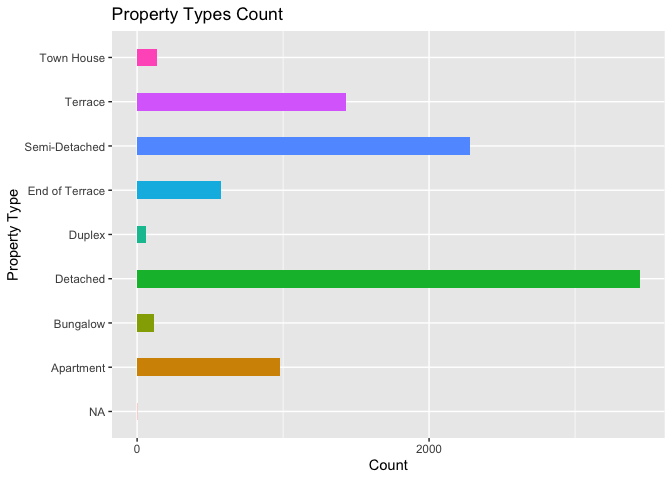
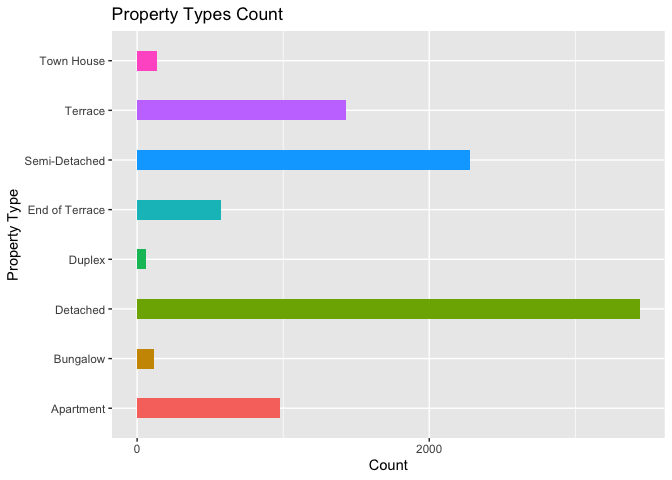
refactor: update R notebook and remove .DS_Store file.

diff --git a/scripts/exploration/DataExploration-HousingDataset.md b/scripts/exploration/DataExploration-HousingDataset.md
@@ -52,7 +52,7 @@ skim(ireland_houses)
 |                                                  |                |
 |:-------------------------------------------------|:---------------|
 | Name                                             | ireland_houses |
-| Number of rows                                   | 9019           |
+| Number of rows                                   | 9009           |
 | Number of columns                                | 12             |
 | \_\_\_\_\_\_\_\_\_\_\_\_\_\_\_\_\_\_\_\_\_\_\_   |                |
 | Column type frequency:                           |                |
@@ -67,9 +67,9 @@ Data summary
 
 | skim_variable       | n_missing | complete_rate | min | max | empty | n_unique | whitespace |
 |:--------------------|----------:|--------------:|----:|----:|------:|---------:|-----------:|
-| address             |         0 |             1 |  18 | 102 |     0 |     8881 |          0 |
-| propertyType        |         0 |             1 |   0 |  14 |     2 |        9 |          0 |
-| berRating           |         0 |             1 |   0 |   6 |   179 |       17 |          0 |
+| address             |         0 |             1 |  18 | 102 |     0 |     8871 |          0 |
+| propertyType        |         0 |             1 |   6 |  14 |     0 |        8 |          0 |
+| berRating           |         0 |             1 |   0 |   6 |   178 |       17 |          0 |
 | location            |         0 |             1 |   4 |  61 |     0 |      118 |          0 |
 | county              |         0 |             1 |   4 |   9 |     0 |       26 |          0 |
 | townOrNeighbourhood |         0 |             1 |   4 |  52 |     0 |      114 |          0 |
@@ -78,12 +78,12 @@ Data summary
 
 | skim_variable | n_missing | complete_rate |      mean |        sd |       p0 |       p25 |       p50 |       p75 |        p100 | hist  |
 |:--------------|----------:|--------------:|----------:|----------:|---------:|----------:|----------:|----------:|------------:|:------|
-| price         |         0 |             1 | 462205.81 | 555869.03 | 40000.00 | 245000.00 | 340000.00 | 495000.00 | 15000000.00 | ▇▁▁▁▁ |
-| size          |         0 |             1 |    145.61 |    150.63 |     1.00 |     86.00 |    112.00 |    163.50 |     6109.00 | ▇▁▁▁▁ |
+| price         |         0 |             1 | 462485.76 | 556102.05 | 40000.00 | 245000.00 | 340000.00 | 495000.00 | 15000000.00 | ▇▁▁▁▁ |
+| size          |         0 |             1 |    145.76 |    150.64 |    20.00 |     86.00 |    112.00 |    164.00 |     6109.00 | ▇▁▁▁▁ |
 | bedrooms      |         0 |             1 |      3.43 |      1.35 |     1.00 |      3.00 |      3.00 |      4.00 |       30.00 | ▇▁▁▁▁ |
-| bathrooms     |         0 |             1 |      2.35 |      1.34 |     1.00 |      1.00 |      2.00 |      3.00 |       28.00 | ▇▁▁▁▁ |
+| bathrooms     |         0 |             1 |      2.35 |      1.35 |     1.00 |      1.00 |      2.00 |      3.00 |       28.00 | ▇▁▁▁▁ |
 | latitude      |         0 |             1 |     53.09 |      0.70 |    51.44 |     52.63 |     53.29 |     53.40 |       55.38 | ▂▂▇▁▁ |
-| longitude     |         0 |             1 |     -7.34 |      1.18 |   -10.35 |     -8.47 |     -6.80 |     -6.28 |       -6.01 | ▁▂▃▂▇ |
+| longitude     |         0 |             1 |     -7.34 |      1.18 |   -10.35 |     -8.46 |     -6.80 |     -6.28 |       -6.01 | ▁▂▃▂▇ |
 
 ## Understanding the data
 
@@ -182,8 +182,7 @@ ggplot(data = ireland_houses) +
     width = 0.4,
     mapping = aes(fill = as.factor(propertyType), 
                   x = factor(propertyType,
-                      labels = c("NA", 
-                                 "Apartment", 
+                      labels = c("Apartment", 
                                  "Bungalow", 
                                  "Detached", 
                                  "Duplex", 
@@ -248,7 +247,7 @@ ggplot(data = ireland_houses) +
   theme(legend.position = "none")
 ```
 
-    ## Picking joint bandwidth of 41500
+    ## Picking joint bandwidth of 39300
 
     ## Warning: Removed 475 rows containing non-finite values
     ## (`stat_density_ridges()`).
